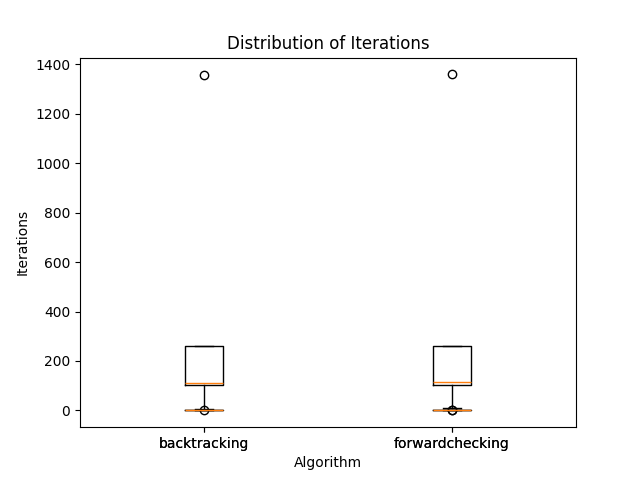
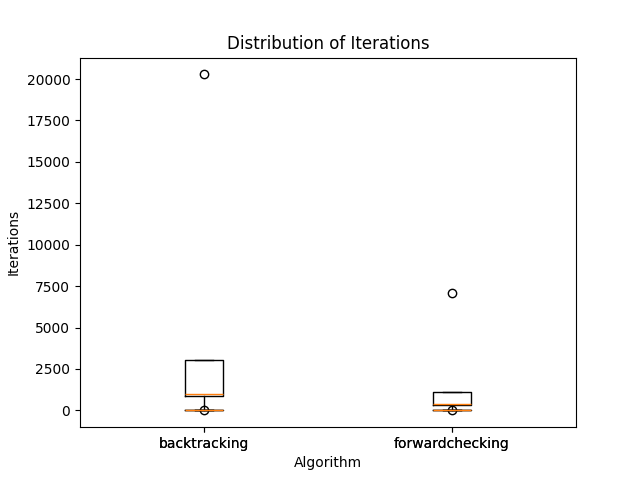
bug fix

diff --git a/tp6-csp/code/forwardCheckingCSP.py b/tp6-csp/code/forwardCheckingCSP.py
@@ -10,8 +10,9 @@ def isSecure(board, row, col):
 def searchforwardcheckingCSP(n):
     board = [-1] * n
     domain = [[x for x in range(n)] for i in range(n)] 
-
-    return forwardcheckingCSP(board, domain, n, 0)
+    it = [0]
+    board = forwardcheckingCSP(board, domain, n, 0, it)
+    return board, it[0]
 
 def selectVariableMRV(domain):
     min_domain_size = float('inf')
@@ -22,29 +23,31 @@ def selectVariableMRV(domain):
             selected_variable = i
     return selected_variable
 
-def forwardcheckingCSP(board, domain, n, row, it=0):
+def forwardcheckingCSP(board, domain, n, row, it):
     if row == n:
-        return board, it
+        return board
 
     selected_variable = selectVariableMRV(domain)
 
     if selected_variable == -1:
-        return None, it 
+        return None
 
     for col in domain[selected_variable]:
+        it[0] += 1
         if isSecure(board, selected_variable, col):
             board[selected_variable] = col
             saveDomain = [list(domain[i]) for i in range(n)]
             for i in range(row + 1, n):
                 domain[i].remove(col)  
 
-            result, it = forwardcheckingCSP(board, domain, n, row + 1, it + 1)
+            result= forwardcheckingCSP(board, domain, n, row + 1, it)
             if result is not None:
-                return result, it
+                return result
 
             for i in range(row + 1, n):
                 domain[i] = list(saveDomain[i])
             board[selected_variable] = -1
 
-    return None, it
+    return None
+
 

diff --git a/tp6-csp/code/backtrackingCSP.py b/tp6-csp/code/backtrackingCSP.py
@@ -15,23 +15,24 @@ def isSolution(board, n):
     return len(board) == n
 
 def searchbacktrackingCSP(n):
-    
-    return backtrackingCSP([],n, 0)
+    it = [0]
+    board = backtrackingCSP([],n, it)
+    return board, it[0]
 
-def backtrackingCSP(board, n, it = 0):
+def backtrackingCSP(board, n, iterations):
     if len(board) == n:
-        return board, it
+        return board
     else:
         for col in range(n):
+            iterations[0] += 1
             if not isAttacked(board, col):
                 board.append(col)
                 if isSolution(board, n):
-                    return board, it
+                    return board
                 else:
-                    solution, it = backtrackingCSP(board, n, it +1)
+                    solution = backtrackingCSP(board, n, iterations)
                     if solution != None:
-                        return solution, it
+                        return solution
                 board.pop()
-        return None, it
+        return None
     
-

diff --git a/tp6-csp/code/main.py b/tp6-csp/code/main.py
@@ -19,14 +19,14 @@ def printResults(algortihmName, n, time, it):
     draw = ImageDraw.Draw(image)
     font = ImageFont.truetype("arial.ttf", 10)
     textTime = f"Tiempo para {n} reinas con {algortihmName}: {time}"
-    textIt = f"iteraciones: {it1}"
+    textIt = f"iteraciones: {it}"
 
     draw.text((20,80), textTime, fill="black", font=font)
     draw.text((20,120), textIt, fill="black", font=font)
     image.save(f"tp6-csp/code/results/{algortihmName}-{n}.png")
 
     print(f"Tiempo para {n} reinas con {algortihmName}: {time}")
-    print(f"iteraciones: {it1}")
+    print(f"iteraciones: {it}")
     print("---------------------------")
 
 if __name__ == "__main__":
@@ -41,7 +41,7 @@ if __name__ == "__main__":
     for n in problems:
         time1, it1 = excute(searchbacktrackingCSP, n)
         time2, it2 = excute(searchforwardcheckingCSP, n)
-
+        
         printResults(algorithmnames[0], n, time1, it1)
         printResults(algorithmnames[1], n, time2, it2)
 
